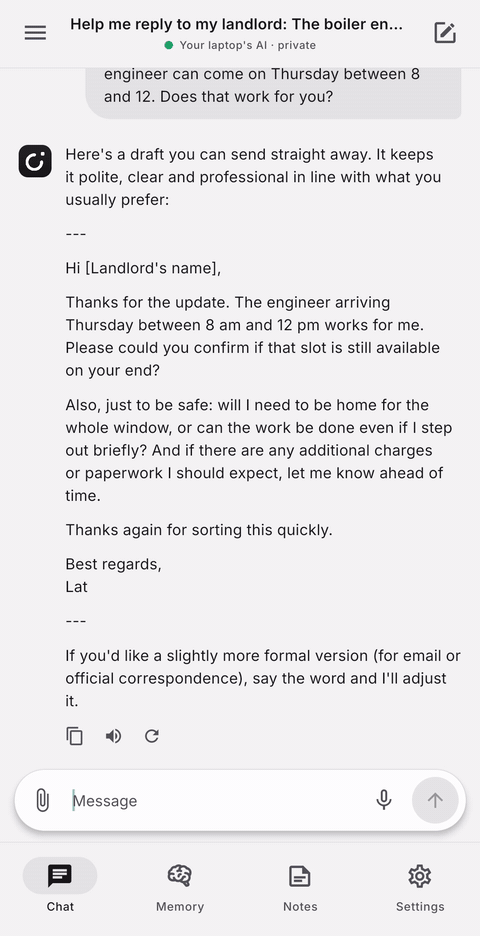
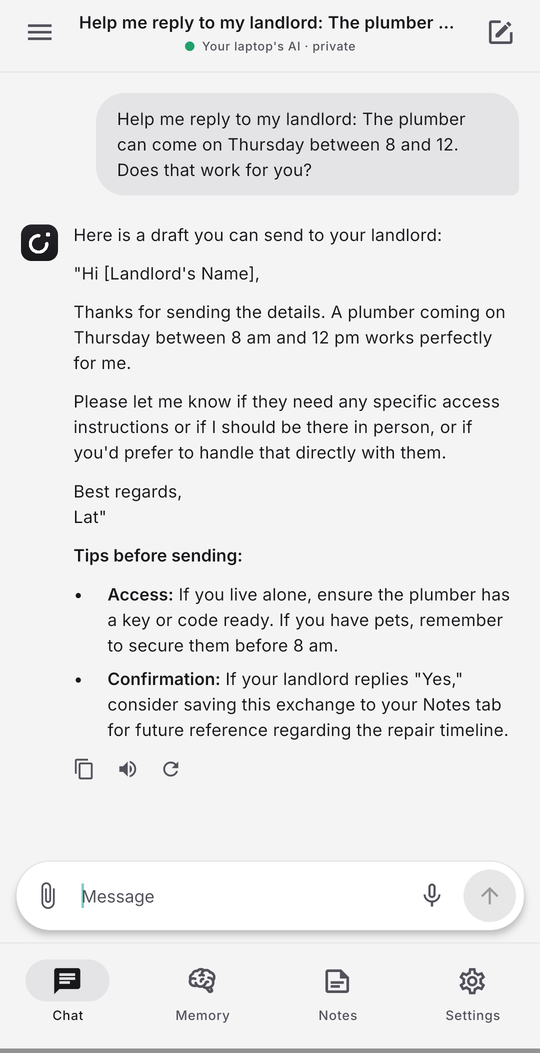
README and store screenshots with international examples
The demo GIF now drafts a reply about a plumber's visit (it was a
"boiler engineer"), and the PDF example summarises a made-up building
notice about a water shut-off (it was a UK council's bin letter with
prices in pounds). The Fastlane screenshots match.

diff --git a/README.md b/README.md
@@ -4,7 +4,7 @@
 
 | Drafts replies | Summarises PDFs you share | Runs on your own devices |
 | :---: | :---: | :---: |
-| <img src="docs/images/demo.gif" width="250" alt="Typing a message from a landlord about a boiler engineer visit, and Untethered drafting a polite reply"> | <img src="docs/images/summarise-pdf.png" width="250" alt="A council letter about bin collection changes shared as a PDF, and Untethered summarising it"> | <img src="docs/images/settings-ai.png" width="250" alt="The AI settings: the laptop's model, the phone's own Qwen3.5 model, and speed and heat options"> |
+| <img src="docs/images/demo.gif" width="250" alt="Typing a message from a landlord about a plumber's visit, and Untethered drafting a polite reply"> | <img src="docs/images/summarise-pdf.png" width="250" alt="A building notice about a water shut-off shared as a PDF, and Untethered summarising it"> | <img src="docs/images/settings-ai.png" width="250" alt="The AI settings: the laptop's model, the phone's own Qwen3.5 model, and speed and heat options"> |
 
 ## Install
 
